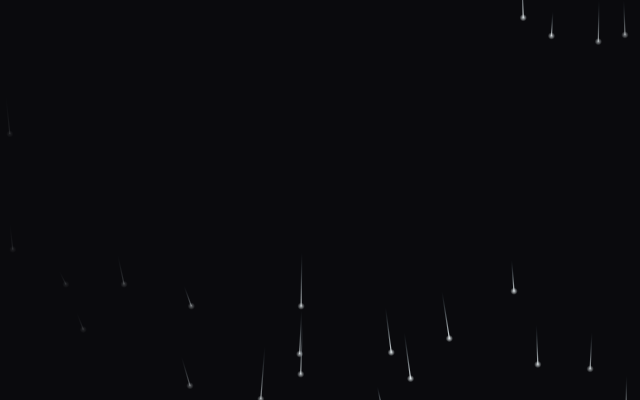
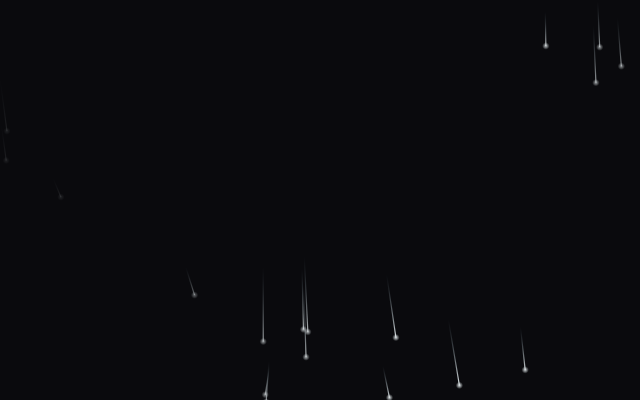
polish three collection pieces

diff --git a/downloads/rainfall.html b/downloads/rainfall.html
@@ -1223,9 +1223,9 @@ function describeForAI({ pieceName, values }) {
 
   // Deliberately a sparse piece — quiet rain, not a downpour. Sits between
   // tether (6, the sparsest) and meridian (7 long ribbons) in the library.
-  // Two fewer drops offsets the extra marked pixels from the correlated
-  // weather-front phase; the hero stays at or below its 0.008 ink baseline.
-  const BASE_COUNT = 26;
+  // Fewer drops leave room for longer, more coordinated streaks while the
+  // hero stays at or below its 0.008 ink baseline.
+  const BASE_COUNT = 20;
   // Fraction of canvas height a streak crosses per second at speedMult=1,
   // values.speed=1 — slow enough that a single drop takes ~14s to fall.
   const BASE_FALL = 0.07;
@@ -1287,7 +1287,7 @@ function describeForAI({ pieceName, values }) {
         // lockstep and read as a single sheet, not individual streaks.
         // Correlate most of the vertical phase with x. The same sparse marks
         // now arrive as a quiet weather front instead of unrelated dots.
-        seed: (x * 0.55 + Math.random() * 0.45) % 1,
+        seed: (x * 0.8 + Math.random() * 0.2) % 1,
         // Per-drop speed and length variety, per the brief ("varying speeds
         // and lengths"). Range chosen so slow/short and fast/long drops both
         // stay legible as rain, not as outliers.
@@ -1338,11 +1338,11 @@ function describeForAI({ pieceName, values }) {
     const H = canvas.height;
     const t = elapsed * values.speed * BASE_FALL;
     const lineWidth = 0.6 + values.stroke * 1.8;
-    const baseLen = H * 0.05 * (0.4 + values.scale);
+    const baseLen = H * 0.07 * (0.4 + values.scale);
     // Gentle wind sway, independent of fall speed — subtle by design so the
     // piece stays calm rather than turning into a gust.
     const swayAmount = W * 0.01 * values.motion;
-    const leanAmount = W * 0.035 * values.motion;
+    const leanAmount = W * 0.06 * values.motion;
     const theta = (values.angle * Math.PI) / 180;
     // Veil breathing, independent of fall speed too, and gated by Motion
     // (near-static at motion=0, full pace at motion=1) so the shared

diff --git a/pieces/rainfall/index.html b/pieces/rainfall/index.html
@@ -47,9 +47,9 @@
 
   // Deliberately a sparse piece — quiet rain, not a downpour. Sits between
   // tether (6, the sparsest) and meridian (7 long ribbons) in the library.
-  // Two fewer drops offsets the extra marked pixels from the correlated
-  // weather-front phase; the hero stays at or below its 0.008 ink baseline.
-  const BASE_COUNT = 26;
+  // Fewer drops leave room for longer, more coordinated streaks while the
+  // hero stays at or below its 0.008 ink baseline.
+  const BASE_COUNT = 20;
   // Fraction of canvas height a streak crosses per second at speedMult=1,
   // values.speed=1 — slow enough that a single drop takes ~14s to fall.
   const BASE_FALL = 0.07;
@@ -111,7 +111,7 @@
         // lockstep and read as a single sheet, not individual streaks.
         // Correlate most of the vertical phase with x. The same sparse marks
         // now arrive as a quiet weather front instead of unrelated dots.
-        seed: (x * 0.55 + Math.random() * 0.45) % 1,
+        seed: (x * 0.8 + Math.random() * 0.2) % 1,
         // Per-drop speed and length variety, per the brief ("varying speeds
         // and lengths"). Range chosen so slow/short and fast/long drops both
         // stay legible as rain, not as outliers.
@@ -162,11 +162,11 @@
     const H = canvas.height;
     const t = elapsed * values.speed * BASE_FALL;
     const lineWidth = 0.6 + values.stroke * 1.8;
-    const baseLen = H * 0.05 * (0.4 + values.scale);
+    const baseLen = H * 0.07 * (0.4 + values.scale);
     // Gentle wind sway, independent of fall speed — subtle by design so the
     // piece stays calm rather than turning into a gust.
     const swayAmount = W * 0.01 * values.motion;
-    const leanAmount = W * 0.035 * values.motion;
+    const leanAmount = W * 0.06 * values.motion;
     const theta = (values.angle * Math.PI) / 180;
     // Veil breathing, independent of fall speed too, and gated by Motion
     // (near-static at motion=0, full pace at motion=1) so the shared

diff --git a/downloads/tether.html b/downloads/tether.html
@@ -1237,7 +1237,7 @@ function describeForAI({ pieceName, values }) {
   // size including a gallery card.
   // Just inside the right edge so the bundle terminates at a visible eye
   // instead of reading as a cut stub of blunt line ends.
-  const TETHER_X = 0.92;
+  const TETHER_X = 0.88;
   const TETHER_Y = 0.48;
 
   function seedCables(count) {
@@ -1329,12 +1329,16 @@ function describeForAI({ pieceName, values }) {
     // The highlight alone read as atmosphere, not an object the cables were
     // tied to. A small eye gives the fan a literal point of attachment at
     // card size without turning the sparse piece into a logo.
-    const eyeR = 3 + values.stroke * 1.5;
+    const eyeR = 5 + values.stroke * 2.4;
     ctx.strokeStyle = `rgba(${kr},${kg},${kb},${values.opacity * 0.9})`;
     ctx.lineWidth = Math.max(1, values.stroke * 1.2);
     ctx.beginPath();
-    ctx.arc(glowX, glowY, eyeR, 0, Math.PI * 2);
+    ctx.ellipse(glowX, glowY, eyeR * 1.35, eyeR * 0.72, -0.25, 0, Math.PI * 2);
     ctx.stroke();
+    ctx.fillStyle = `rgba(${kr},${kg},${kb},${values.opacity * 0.65})`;
+    ctx.beginPath();
+    ctx.arc(glowX, glowY, Math.max(1.5, eyeR * 0.22), 0, Math.PI * 2);
+    ctx.fill();
 
     for (let i = 0; i < cables.length; i++) {
       const c = cables[i];

diff --git a/pieces/tether/index.html b/pieces/tether/index.html
@@ -61,7 +61,7 @@
   // size including a gallery card.
   // Just inside the right edge so the bundle terminates at a visible eye
   // instead of reading as a cut stub of blunt line ends.
-  const TETHER_X = 0.92;
+  const TETHER_X = 0.88;
   const TETHER_Y = 0.48;
 
   function seedCables(count) {
@@ -153,12 +153,16 @@
     // The highlight alone read as atmosphere, not an object the cables were
     // tied to. A small eye gives the fan a literal point of attachment at
     // card size without turning the sparse piece into a logo.
-    const eyeR = 3 + values.stroke * 1.5;
+    const eyeR = 5 + values.stroke * 2.4;
     ctx.strokeStyle = `rgba(${kr},${kg},${kb},${values.opacity * 0.9})`;
     ctx.lineWidth = Math.max(1, values.stroke * 1.2);
     ctx.beginPath();
-    ctx.arc(glowX, glowY, eyeR, 0, Math.PI * 2);
+    ctx.ellipse(glowX, glowY, eyeR * 1.35, eyeR * 0.72, -0.25, 0, Math.PI * 2);
     ctx.stroke();
+    ctx.fillStyle = `rgba(${kr},${kg},${kb},${values.opacity * 0.65})`;
+    ctx.beginPath();
+    ctx.arc(glowX, glowY, Math.max(1.5, eyeR * 0.22), 0, Math.PI * 2);
+    ctx.fill();
 
     for (let i = 0; i < cables.length; i++) {
       const c = cables[i];

diff --git a/downloads/flow-field.html b/downloads/flow-field.html
@@ -1261,7 +1261,7 @@ function createResizeBatcher(container, onResize, maxDPR = 2) {
   // a tangled purple blob rather than legible flow lines next to
   // Driftwork's woven mesh — this is the actual lever, not another
   // modulation on top of the same crossing count.
-  const BASE_COUNT = 320;
+  const BASE_COUNT = 280;
   let particles = [];
   let paths = [];
 

diff --git a/pieces/flow-field/index.html b/pieces/flow-field/index.html
@@ -46,7 +46,7 @@
   // a tangled purple blob rather than legible flow lines next to
   // Driftwork's woven mesh — this is the actual lever, not another
   // modulation on top of the same crossing count.
-  const BASE_COUNT = 320;
+  const BASE_COUNT = 280;
   let particles = [];
   let paths = [];
 
